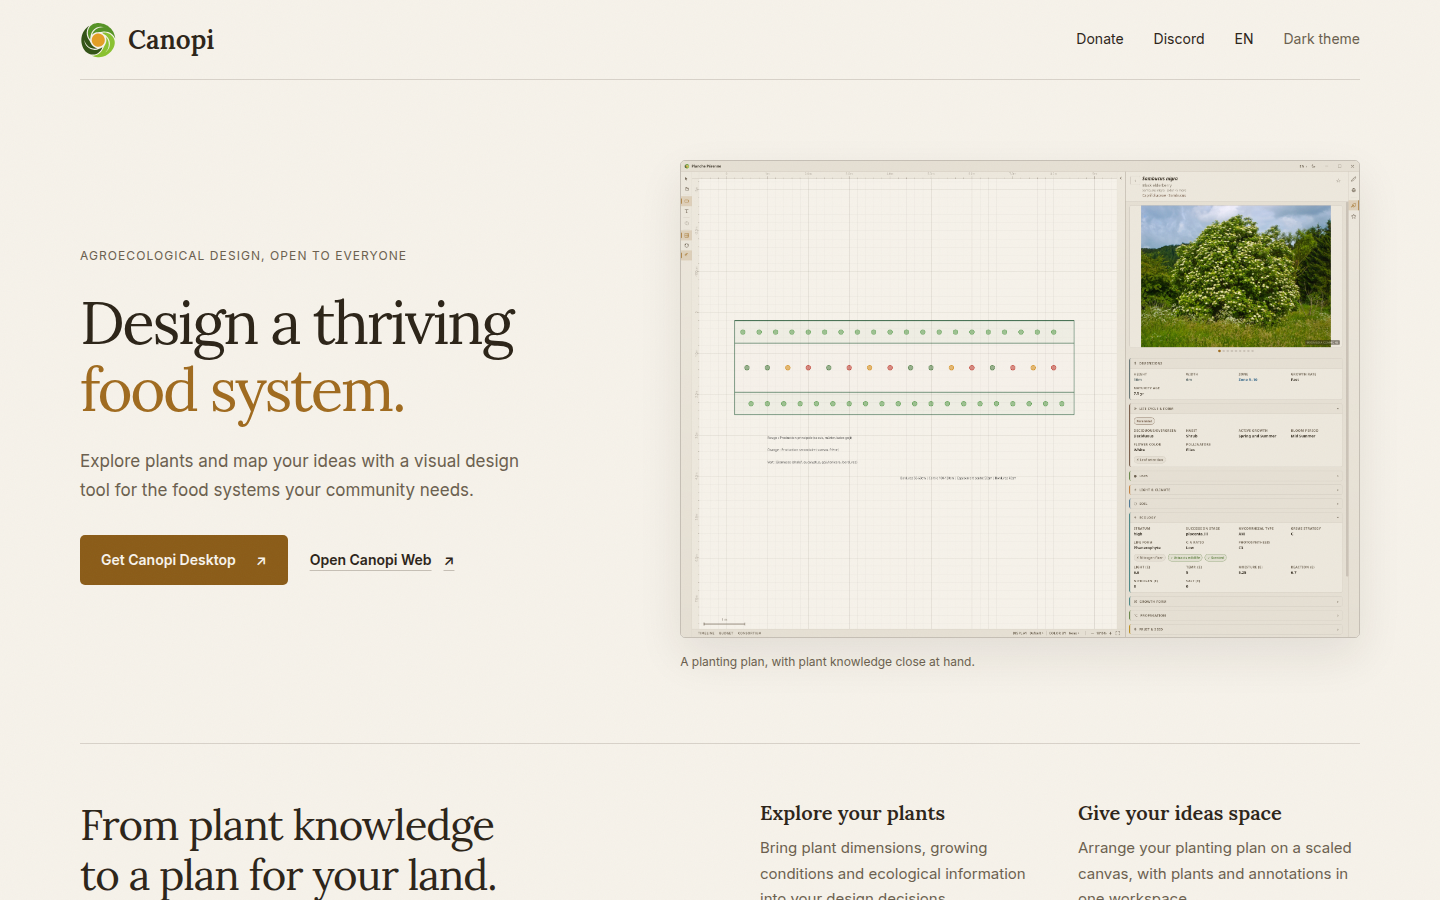
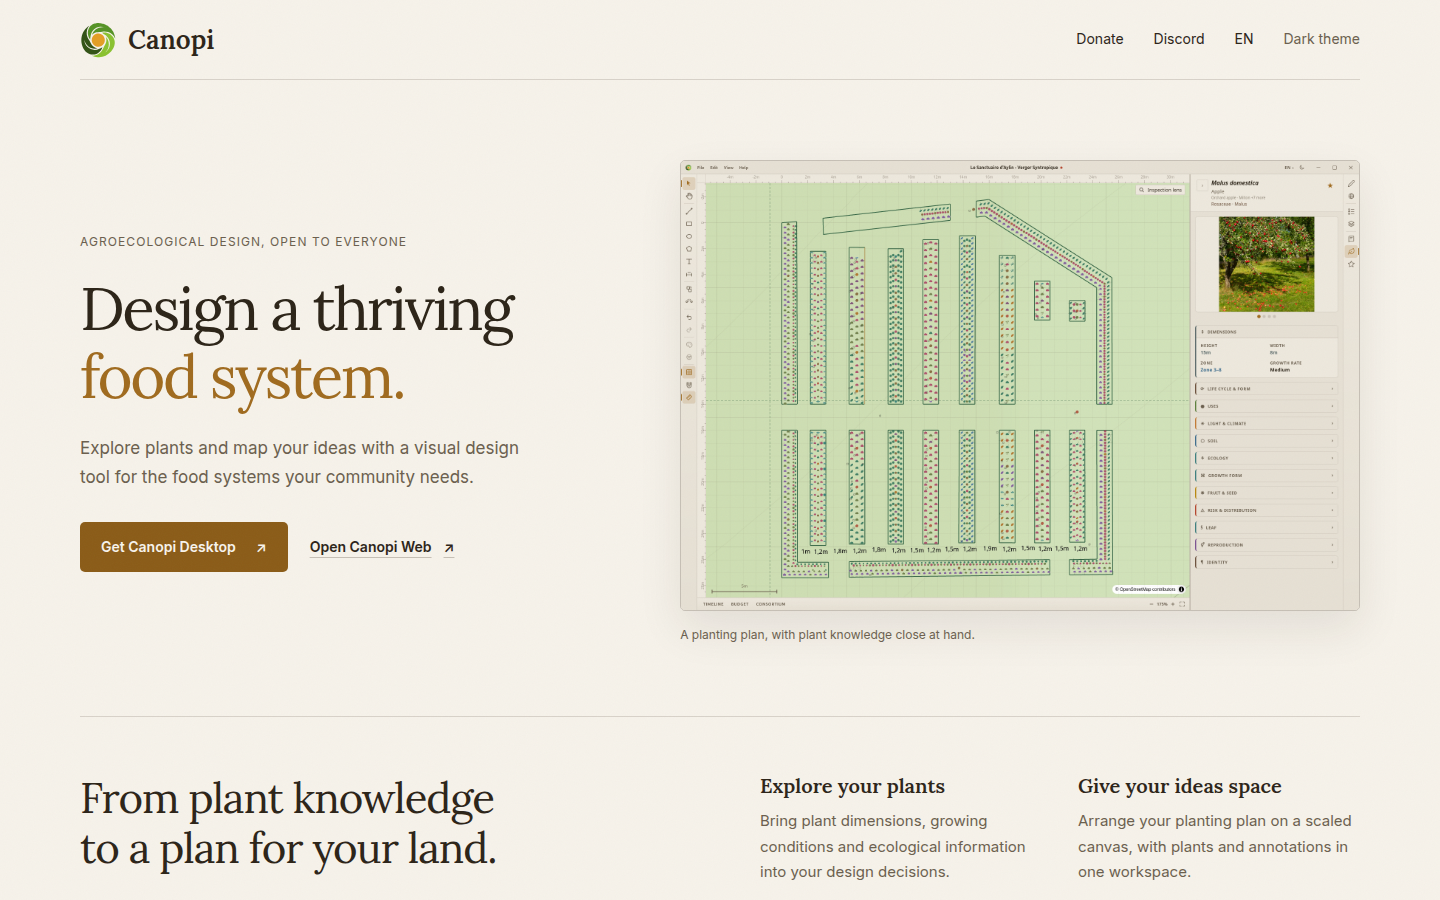
docs: use supplied orchard screenshot in design proposal

diff --git a/docs/design-proposal/index.html b/docs/design-proposal/index.html
@@ -24,13 +24,13 @@
         <p class="lead">Explore plants and map your ideas with a visual design tool for the food systems your community needs.</p>
         <div class="actions"><a class="button primary" href="#editions">Get Canopi Desktop <span aria-hidden="true">↗</span></a><a class="text-link" href="https://web.projectcanopi.com/">Open Canopi Web <span aria-hidden="true">↗</span></a></div>
       </div>
-      <figure class="product"><a href="../../public/screenshot-light.png" aria-label="View full Canopi app screenshot"><img src="../../public/screenshot-light.png" width="1868" height="1312" alt="Canopi showing a planted bed on a scaled canvas beside an elderberry profile with plant dimensions and ecology information."></a><figcaption>A planting plan, with plant knowledge close at hand.</figcaption></figure>
+      <figure class="product"><a href="orchard-screenshot.png" aria-label="View full Canopi app screenshot"><img src="orchard-screenshot.png" width="1836" height="1216" alt="Canopi showing a syntropic orchard plan with diverse planting rows and spacing measurements beside an apple tree profile."></a><figcaption>A planting plan, with plant knowledge close at hand.</figcaption></figure>
     </section>
     <section class="workflow wrap" aria-labelledby="workflow-title">
       <h2 id="workflow-title">From plant knowledge<br>to a plan for your land.</h2>
       <div class="workflow-copy"><article><h3>Explore your plants</h3><p>Bring plant dimensions, growing conditions and ecological information into your design decisions.</p></article><article><h3>Give your ideas space</h3><p>Arrange your planting plan on a scaled canvas, with plants and annotations in one workspace.</p></article><a class="text-link" href="#demo">See the canvas in action <span aria-hidden="true">↓</span></a></div>
     </section>
-    <section class="demo wrap" id="demo" aria-labelledby="demo-title"><div class="section-heading"><h2 id="demo-title">A closer look at Canopi.</h2><p>Watch the design canvas in use.</p></div><video controls playsinline preload="none" poster="../../public/screenshot-light.png" aria-label="Silent demonstration of Canopi canvas tools"><source src="../../public/demo-canopi-720.mp4" type="video/mp4"></video><p class="caption">Silent screen recording. Use the playback controls to pause or explore.</p></section>
+    <section class="demo wrap" id="demo" aria-labelledby="demo-title"><div class="section-heading"><h2 id="demo-title">A closer look at Canopi.</h2><p>Watch the design canvas in use.</p></div><video controls playsinline preload="none" poster="orchard-screenshot.png" aria-label="Silent demonstration of Canopi canvas tools"><source src="../../public/demo-canopi-720.mp4" type="video/mp4"></video><p class="caption">Silent screen recording. Use the playback controls to pause or explore.</p></section>
     <section class="editions wrap" id="editions" aria-labelledby="editions-title"><div class="section-heading"><h2 id="editions-title">Choose where you design.</h2><p>Two editions. The same canvas tools.</p></div><div class="edition-grid"><article><h3>Canopi Desktop</h3><p>The larger plant catalog, on your computer.<br>Available for Linux, macOS and Windows.</p><a class="button primary" href="https://github.com/naejin/canopi/releases">Download Canopi Desktop <span aria-hidden="true">↗</span></a><p class="caption">Choose your installer on the releases page.</p></article><article><h3>Canopi Web</h3><p>Open the canvas in your browser.<br>A smaller plant catalog, with no installation.</p><a class="button secondary" href="https://web.projectcanopi.com/">Open Canopi Web <span aria-hidden="true">↗</span></a></article></div></section>
     <section class="network wrap" aria-labelledby="network-title"><div class="section-heading"><h2 id="network-title">Agroecology network</h2><p>Discover organizations working across the wider agroecology movement.</p></div><div id="network-groups"><details><summary>Global</summary><ul><li><a href="https://www.deepseed.eu/">DeepSeed ↗</a></li><li><a href="https://agroecologyfund.org/">Agroecology Fund ↗</a></li><li><a href="https://www.accessagriculture.org/">Access Agriculture ↗</a></li><li><a href="https://savory.global/">Savory Institute ↗</a></li></ul></details><details><summary>Europe</summary><ul><li><a href="https://www.agroecology-europe.org/">Agroecology Europe ↗</a></li></ul></details><details><summary>France</summary><ul><li><a href="https://joala.fr/">Joala Syntropie ↗</a></li><li><a href="https://destinationsyntropie.org/">Destination Syntropie ↗</a></li><li><a href="https://www.lvh-france.com/">La Vache Heureuse ↗</a></li><li><a href="https://www.verdeterreprod.fr/">Ver de Terre Production ↗</a></li><li><a href="https://centre-national-agroecologie.fr/">Centre National d’Agroécologie ↗</a></li><li><a href="https://www.maraichagesolvivant.fr/">Maraîchage Sol Vivant ↗</a></li><li><a href="https://www.centreagroecologie.fr/">Centre for Living Agroecology and food Systems ↗</a></li></ul></details><details><summary>Switzerland</summary><ul><li><a href="https://www.biovision.ch/en/">Biovision ↗</a></li></ul></details><details><summary>United States</summary><ul><li><a href="https://rodaleinstitute.org/">Rodale Institute ↗</a></li><li><a href="https://regenorganic.org/">Regenerative Organic Alliance ↗</a></li></ul></details><details><summary>Brazil</summary><ul><li><a href="https://agendagotsch.com/en/">Agenda Gotsch ↗</a></li></ul></details><details><summary>India</summary><ul><li><a href="https://apcnf.in/">Andhra Pradesh Community Managed Natural Farming ↗</a></li></ul></details></div><p class="caption">An ecosystem directory, without implying partnership or endorsement.</p></section>
   </main>

diff --git a/docs/design-proposal/README.md b/docs/design-proposal/README.md
@@ -12,7 +12,7 @@ The main weakness is the allocation of attention. At a 1440 × 900 viewport, the
 
 The headline communicates purpose but does not explain the tool. A short sentence about plant information and the design canvas would make the offer concrete. The current page asks visitors to choose Desktop or Web without explaining the catalog difference documented in CONTEXT.md.
 
-The autoplay demo can initially show an almost empty canvas. The repository's existing screenshot, showing a planted bed and an elderberry profile, offers more immediate evidence. It also connects the warm visual identity to an actual plant rather than adding unrelated decorative imagery.
+The autoplay demo can initially show an almost empty canvas. The supplied screenshot, showing a detailed syntropic orchard plan and an apple tree profile, offers more immediate evidence. It also connects the warm visual identity to an actual plant rather than adding unrelated decorative imagery.
 
 At desktop size the network section occupies approximately 2,163px of the page, compared with approximately 1,331px for the entire hero and demo. That makes an ecosystem directory the dominant reading experience. These are relevant organizations, but they should not carry the burden of explaining or validating the product. They are not presented as customers or partners.
 
@@ -20,7 +20,7 @@ These are design judgments based on browser inspection, not measured conversion 
 
 ## Proposed direction
 
-Keep the existing brand and make the product the focal point. Use a two-line headline, a concrete explanation, and the existing app screenshot alongside each other. The screenshot begins at y=160 on desktop and links to the full-resolution source. At 1280 × 800, both hero actions remain visible.
+Keep the existing brand and make the product the focal point. Use a two-line headline, a concrete explanation, and the supplied app screenshot alongside each other. The screenshot begins at y=160 on desktop and links to the full-resolution source. At 1280 × 800, both hero actions remain visible.
 
 Follow with two short, observable capabilities: exploring plant information and arranging a planting plan. Keep the real demonstration as a user-controlled video further down. Explain the editions before sending visitors to the browser or installer releases. Retain all 17 organizations in seven native expandable country/region groups.
 
@@ -32,4 +32,4 @@ This is an English review prototype. Production localization, platform-detected 
 
 Desktop, laptop and mobile screenshots accompany the prototype. Browser checks cover image/font loading, horizontal overflow, the theme toggle, expandable directory, video controls and real link destinations. The page has keyboard focus styling and a skip link. No new dependencies or production translation keys are introduced.
 
-The proposal uses the current repository screenshot as supplied. A future product capture with a richer completed plan could strengthen the presentation further, but no invented interface or fabricated product outcome is used here.
+The proposal uses the user-supplied orchard screenshot unchanged in the hero and as the video poster. The demo recording itself is unchanged. No invented interface or fabricated product outcome is used here.
